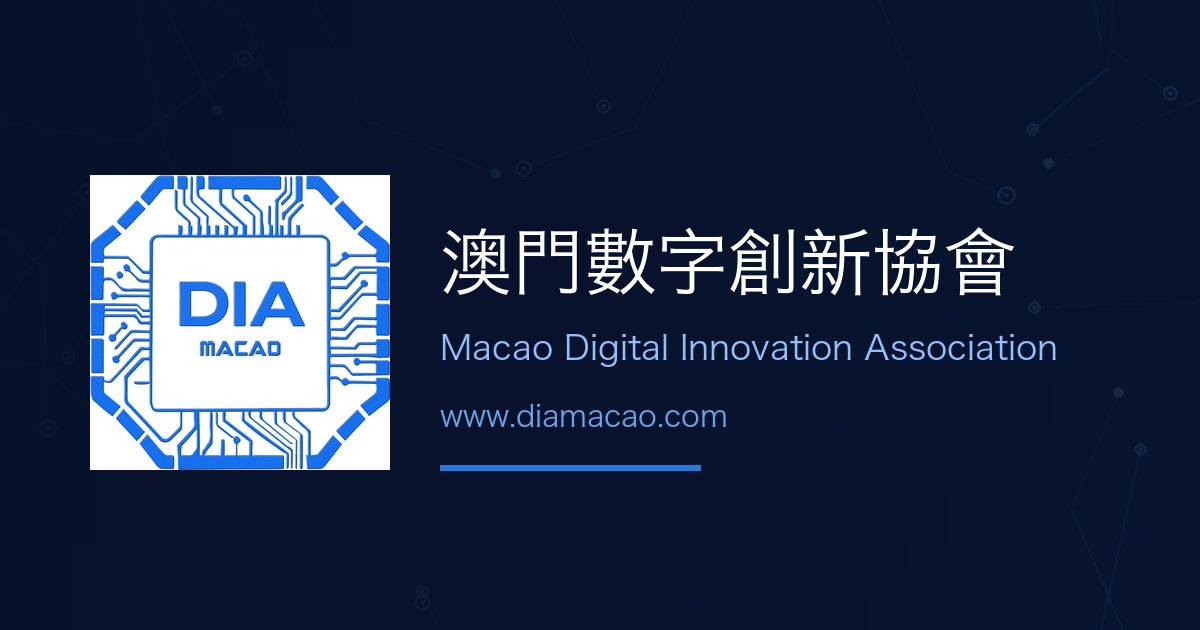
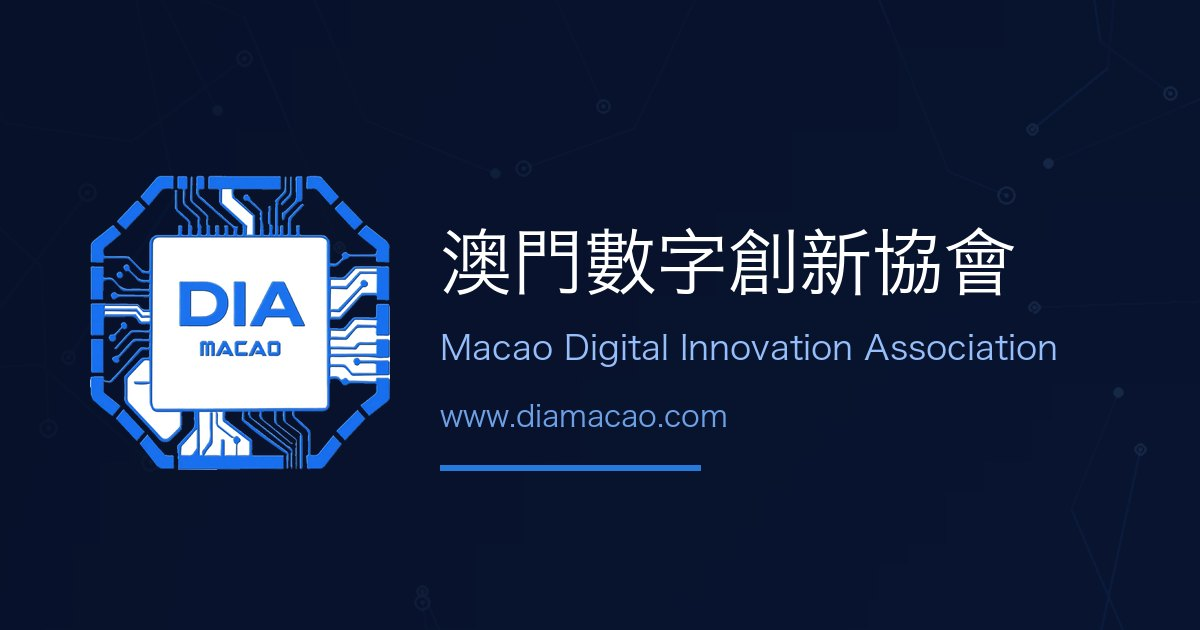
新增出海護航頁（4語言）+LOGO摳圖透明化+合作夥伴更新（換中西創新學院/南航科技，增科伊思/Beroni/中盛/中光）

Changed region(s): [[0.0617, 0.2714, 0.3392, 0.754]]

diff --git a/assets/css/style.css b/assets/css/style.css
@@ -175,7 +175,7 @@ h1, h2, h3, h4 { font-family: var(--font-display); }
   background: linear-gradient(180deg, hsl(222 60% 10% / .72), hsl(217 75% 24% / .66));
 }
 .hero .container-institutional { position: relative; }
-.hero .hero-logo { width: clamp(7rem, 14vw, 10rem); margin: 0 auto 2rem; filter: drop-shadow(0 8px 32px rgb(37 122 219 / .55)); border-radius: 1.25rem; }
+.hero .hero-logo { width: clamp(8rem, 16vw, 11.5rem); margin: 0 auto 2rem; filter: drop-shadow(0 10px 36px rgb(37 122 219 / .6)); }
 .hero h1 { font-size: 1.75rem; line-height: 1.4; font-weight: 700; margin: 0 auto 1.5rem; max-width: 62rem; letter-spacing: 0; }
 @media (min-width: 768px) { .hero h1 { font-size: 2.5rem; } }
 @media (min-width: 1024px) { .hero h1 { font-size: 3rem; } }
@@ -396,4 +396,49 @@ textarea { resize: vertical; min-height: 6rem; }
 @media (prefers-reduced-motion: reduce) {
   .js .reveal { opacity: 1; transform: none; transition: none; }
   html { scroll-behavior: auto; }
+}
+
+/* ---------- 出海護航 ---------- */
+.escort-lead { max-width: 46rem; margin: 0 auto 3rem; text-align: center; color: hsl(var(--muted-foreground)); font-size: 1.125rem; line-height: 1.75; }
+.escort-stats { display: flex; flex-direction: column; gap: 1.25rem; }
+.escort-stat { display: flex; align-items: center; gap: 1.5rem; background: hsl(var(--card)); border: 1px solid hsl(var(--border)); border-radius: 1rem; padding: 1.25rem 1.5rem; box-shadow: 0 1px 3px rgb(0 0 0 / .05); }
+.escort-stat-num { flex: none; width: 6.5rem; height: 6.5rem; border-radius: 9999px; display: flex; align-items: center; justify-content: center; text-align: center; background: linear-gradient(135deg, hsl(var(--secondary)), hsl(var(--primary))); color: #fff; font-family: var(--font-display); font-weight: 700; font-size: 1.0625rem; line-height: 1.25; padding: .75rem; }
+.escort-stat p { font-weight: 500; line-height: 1.6; }
+.escort-tagline { margin-top: 2.5rem; background: linear-gradient(120deg, hsl(var(--primary)), hsl(var(--secondary))); color: #fff; text-align: center; font-family: var(--font-display); font-weight: 600; font-size: 1.125rem; padding: 1.125rem 1.5rem; border-radius: 1rem; }
+.escort-circles { display: flex; flex-wrap: wrap; justify-content: center; gap: 2rem; margin-bottom: 3rem; }
+.escort-circle { width: 13rem; height: 13rem; border-radius: 9999px; background: linear-gradient(150deg, hsl(var(--primary)), hsl(222 60% 30%)); color: #fff; display: flex; flex-direction: column; align-items: center; justify-content: center; text-align: center; padding: 1.75rem; gap: .5rem; box-shadow: 0 12px 32px -12px hsl(var(--primary) / .45); }
+.escort-circle b { font-family: var(--font-display); font-size: 1.25rem; }
+.escort-circle span { font-size: .875rem; line-height: 1.5; opacity: .92; }
+.escort-tiers { display: flex; flex-direction: column; gap: 1rem; }
+.escort-tier { display: flex; align-items: center; gap: 1.5rem; }
+.escort-tier-k { flex: none; background: linear-gradient(135deg, hsl(var(--secondary)), hsl(var(--primary))); color: #fff; font-weight: 600; border-radius: 9999px; padding: .625rem 1.5rem; font-size: .9375rem; white-space: nowrap; }
+.escort-tier p { flex: 1; background: hsl(var(--card)); border: 1px solid hsl(var(--border)); border-radius: 1rem; padding: 1rem 1.5rem; font-weight: 500; line-height: 1.6; }
+.escort-flow { display: flex; flex-wrap: wrap; align-items: center; justify-content: center; gap: .75rem; margin-bottom: 3rem; }
+.escort-flow-step { background: hsl(var(--card)); border: 2px dashed hsl(var(--border)); border-radius: 1rem; padding: 1rem 1.5rem; text-align: center; min-width: 7.5rem; }
+.escort-flow-step b { display: block; font-family: var(--font-display); font-size: 1.0625rem; margin-bottom: .125rem; }
+.escort-flow-step span { font-size: .8125rem; color: hsl(var(--muted-foreground)); }
+.escort-flow-step.on { border: 2px solid hsl(var(--primary)); background: hsl(var(--accent)); }
+.escort-flow-step.on b { color: hsl(var(--primary)); }
+.escort-flow-arrow { color: hsl(var(--muted-foreground)); display: flex; }
+.escort-flow-arrow svg { width: 1.25rem; height: 1.25rem; }
+.escort-pain { display: flex; gap: 1rem; align-items: flex-start; }
+.escort-pain h3 { font-size: 1.125rem; font-weight: 600; margin-bottom: .5rem; }
+.escort-pain p { font-size: .9375rem; color: hsl(var(--muted-foreground)); line-height: 1.7; }
+.escort-svc { text-align: center; }
+.escort-svc h3 { font-size: 1.25rem; font-weight: 700; margin-bottom: .25rem; }
+.escort-svc-sub { color: hsl(var(--primary)); font-weight: 600; font-size: .9375rem; margin-bottom: 1rem; }
+.escort-svc p { font-size: .9375rem; line-height: 1.7; }
+.escort-supports-title { text-align: center; font-size: 1.25rem; font-weight: 600; margin: 3rem 0 1.5rem; }
+.escort-chips { display: flex; flex-wrap: wrap; justify-content: center; gap: .75rem; max-width: 56rem; margin: 0 auto; }
+.escort-chip { background: hsl(var(--card)); border: 1px solid hsl(var(--border)); border-radius: 9999px; padding: .625rem 1.375rem; font-weight: 500; font-size: .9375rem; }
+.escort-support-note { max-width: 46rem; margin: 3rem auto 0; text-align: center; background: hsl(var(--accent)); border: 1px solid hsl(var(--primary) / .25); border-radius: 1rem; padding: 1.5rem 2rem; }
+.escort-support-note p { line-height: 1.75; }
+.escort-support-contact { font-size: .9375rem; color: hsl(var(--muted-foreground)); margin-top: .5rem; }
+.escort-support-contact a { color: hsl(var(--primary)); font-weight: 600; }
+.escort-band { background: linear-gradient(120deg, hsl(222 55% 12%), hsl(var(--secondary)) 95%); color: #fff; text-align: center; }
+.escort-band .lead { font-size: 1.25rem; line-height: 1.75; max-width: 42rem; margin: 0 auto 2rem; opacity: .92; }
+@media (max-width: 640px) {
+  .escort-stat { flex-direction: column; text-align: center; }
+  .escort-tier { flex-direction: column; align-items: stretch; text-align: center; }
+  .escort-flow-arrow { transform: rotate(90deg); }
 }

diff --git a/build.py b/build.py
@@ -16,7 +16,7 @@ C = json.load(open(os.path.join(ROOT, 'content.json'), encoding='utf-8'))
 I18N = C['i18n']
 LANGS = [l['code'] for l in C['languages']]
 DEFAULT = C['default_lang']
-PAGES = ['index', 'about', 'members', 'news', 'policy', 'partners', 'contact']
+PAGES = ['index', 'about', 'members', 'news', 'policy', 'services', 'partners', 'contact']
 
 def esc(s): return html.escape(str(s), quote=True)
 
@@ -75,6 +75,10 @@ def icon(name, cls=''):
         'award': '<circle cx="12" cy="8" r="6"/><path d="M15.477 12.89 17 22l-5-3-5 3 1.523-9.11"/>',
         'building': '<rect x="4" y="2" width="16" height="20" rx="2"/><line x1="9" y1="22" x2="9" y2="18"/><line x1="15" y1="22" x2="15" y2="18"/><line x1="8" y1="6" x2="10" y2="6"/><line x1="14" y1="6" x2="16" y2="6"/><line x1="8" y1="10" x2="10" y2="10"/><line x1="14" y1="10" x2="16" y2="10"/><line x1="8" y1="14" x2="10" y2="14"/><line x1="14" y1="14" x2="16" y2="14"/>',
         'pin': '<path d="M21 10c0 7-9 13-9 13s-9-6-9-13a9 9 0 0 1 18 0z"/><circle cx="12" cy="10" r="3"/>',
+        'search': '<circle cx="11" cy="11" r="8"/><line x1="21" y1="21" x2="16.65" y2="16.65"/>',
+        'shield': '<path d="M12 22s8-4 8-10V5l-8-3-8 3v7c0 6 8 10 8 10z"/>',
+        'pause': '<rect x="6" y="4" width="4" height="16"/><rect x="14" y="4" width="4" height="16"/>',
+        'link': '<path d="M10 13a5 5 0 0 0 7.54.54l3-3a5 5 0 0 0-7.07-7.07l-1.72 1.71"/><path d="M14 11a5 5 0 0 0-7.54-.54l-3 3a5 5 0 0 0 7.07 7.07l1.71-1.71"/>',
         'facebook': '<path d="M18 2h-3a5 5 0 0 0-5 5v3H7v4h3v8h4v-8h3l1-4h-4V7a1 1 0 0 1 1-1h3z"/>',
         'linkedin': '<path d="M16 8a6 6 0 0 1 6 6v7h-4v-7a2 2 0 0 0-2-2 2 2 0 0 0-2 2v7h-4v-7a6 6 0 0 1 6-6z"/><rect x="2" y="9" width="4" height="12"/><circle cx="4" cy="4" r="2"/>',
         'instagram': '<rect x="2" y="2" width="20" height="20" rx="5" ry="5"/><path d="M16 11.37A4 4 0 1 1 12.63 8 4 4 0 0 1 16 11.37z"/><line x1="17.5" y1="6.5" x2="17.51" y2="6.5"/>',
@@ -135,7 +139,7 @@ def footer(lang, pre=''):
   <div class="container-institutional section-spacing">
     <div class="footer-grid">
       <div class="footer-col">
-        <img src="{logo}" alt="DIA Logo" style="height:3.5rem;width:auto;margin-bottom:1rem;border-radius:.5rem;">
+        <img src="{logo}" alt="DIA Logo" style="height:3.5rem;width:auto;margin-bottom:1rem;">
         <p class="desc">{esc(ft['description'])}</p>
         <div class="social-row">{social}</div>
       </div>
@@ -153,6 +157,7 @@ def footer(lang, pre=''):
         <ul>
           <li><a href="{hp('news')}">{esc(nav['news'])}</a></li>
           <li><a href="{hp('policy')}">{esc(nav['policy'])}</a></li>
+          <li><a href="{hp('services')}">{esc(nav['services'])}</a></li>
         </ul>
       </div>
       <div class="footer-col">
@@ -305,6 +310,13 @@ def render_index(lang):
       <p class="text-lg text-muted-foreground max-w-2 mx-auto" style="font-size:1.125rem;">{esc(home['focusSub'])}</p>
     </div>
     <div class="grid grid-3">{cards}</div>
+  </div>
+</section>
+<section class="section-spacing escort-band">
+  <div class="container-institutional text-center reveal">
+    <h2 class="institutional-subheading mb-4">{esc(home['escortTitle'])}</h2>
+    <p class="lead">{esc(home['escortLead'])}</p>
+    <a class="btn btn-white" href="{page_href('services', lang, lang)}">{esc(home['escortCta'])}{icon('arrow')}</a>
   </div>
 </section>
 <section class="section-spacing bg-muted-50">
@@ -494,6 +506,75 @@ def render_policy(lang):
     body = page_hero(lang, 'policy') + sections_html
     return page_shell('policy', lang, pl['title'], pl['subtitle'], body)
 
+# ---------------- 出海護航 ----------------
+def render_services(lang):
+    sv = I18N[lang]['services']
+    E = C['escort']
+    stats = ''.join(f'''
+      <div class="escort-stat reveal">
+        <div class="escort-stat-num">{esc(s['num'][lang])}</div>
+        <p>{esc(s['text'][lang])}</p>
+      </div>''' for s in E['s1']['stats'])
+    circles = ''.join(f'''
+      <div class="escort-circle reveal"><b>{esc(c['k'][lang])}</b><span>{esc(c['v'][lang])}</span></div>''' for c in E['s2']['circles'])
+    tiers = ''.join(f'''
+      <div class="escort-tier reveal">
+        <span class="escort-tier-k">{esc(tr['k'][lang])}</span>
+        <p>{esc(tr['v'][lang])}</p>
+      </div>''' for tr in E['s2']['tiers'])
+    steps = ''
+    for i, st in enumerate(E['s3']['flow']):
+        if i:
+            steps += f'<div class="escort-flow-arrow">{icon("arrow")}</div>'
+        state = esc(E['s3']['present' if st['present'] else 'absent'][lang])
+        steps += f'''
+      <div class="escort-flow-step{' on' if st['present'] else ''} reveal">
+        <b>{esc(st['k'][lang])}</b><span>{state}</span>
+      </div>'''
+    pain_icons = ['search', 'shield', 'pause', 'link']
+    pains = ''.join(f'''
+      <div class="institutional-card escort-pain reveal">
+        <div class="icon-badge xs">{icon(pain_icons[i])}</div>
+        <div>
+          <h3>{esc(p['title'][lang])}</h3>
+          <p>{esc(p['desc'][lang])}</p>
+        </div>
+      </div>''' for i, p in enumerate(E['s3']['pains']))
+    svc_icons = ['globe', 'users', 'sparkles']
+    svcs = ''.join(f'''
+      <div class="institutional-card escort-svc reveal">
+        <div class="icon-badge">{icon(svc_icons[i])}</div>
+        <h3>{esc(s['title'][lang])}</h3>
+        <div class="escort-svc-sub">{esc(s['sub'][lang])}</div>
+        <p class="text-muted-foreground">{esc(s['desc'][lang])}</p>
+      </div>''' for i, s in enumerate(E['s4']['services']))
+    chips = ''.join(f'<span class="escort-chip reveal">{esc(s[lang])}</span>' for s in E['s4']['supports'])
+    sup = E['s4']['support']
+    phones = ' / '.join(sup['phones'])
+    def section(sec, muted):
+        return f'''
+<section class="section-spacing{' bg-muted-50' if muted else ''}">
+  <div class="container-institutional">
+    <h2 class="institutional-subheading text-center mb-6 reveal">{esc(sec['title'][lang])}</h2>
+    <p class="escort-lead reveal">{esc(sec['lead'][lang])}</p>
+    {{BODY}}
+    <div class="escort-tagline reveal">{esc(sec['tagline'][lang])}</div>
+  </div>
+</section>'''
+    s1 = section(E['s1'], False).replace('{BODY}', f'<div class="escort-stats max-w-5 mx-auto">{stats}</div>')
+    s2 = section(E['s2'], True).replace('{BODY}', f'<div class="escort-circles">{circles}</div><div class="escort-tiers max-w-5 mx-auto">{tiers}</div>')
+    s3 = section(E['s3'], False).replace('{BODY}', f'<div class="escort-flow">{steps}</div><div class="grid grid-2 max-w-5 mx-auto">{pains}</div>')
+    s4_body = (f'<div class="grid grid-3">{svcs}</div>'
+               f'<h3 class="escort-supports-title reveal">{esc(E["s4"]["supportsTitle"][lang])}</h3>'
+               f'<div class="escort-chips">{chips}</div>'
+               f'''<div class="escort-support-note reveal">
+      <p>{esc(sup['note'][lang])}</p>
+      <p class="escort-support-contact">{esc(sup['contactLabel'][lang])}：{esc(sup['person'][lang])} {phones} · {esc(sup['siteLabel'][lang])}: <a href="{sup['siteUrl']}" target="_blank" rel="noopener">{sup['site']}</a></p>
+    </div>''')
+    s4 = section(E['s4'], True).replace('{BODY}', s4_body)
+    body = page_hero(lang, 'services') + s1 + s2 + s3 + s4
+    return page_shell('services', lang, sv['title'], sv['subtitle'], body)
+
 # ---------------- 合作夥伴 ----------------
 def render_partners(lang):
     pt = I18N[lang]['partners']
@@ -605,8 +686,8 @@ def render_contact(lang):
 
 # ---------------- 構建 ----------------
 RENDERERS = {'index': render_index, 'about': render_about, 'members': render_members,
-             'news': render_news, 'policy': render_policy, 'partners': render_partners,
-             'contact': render_contact}
+             'news': render_news, 'policy': render_policy, 'services': render_services,
+             'partners': render_partners, 'contact': render_contact}
 
 def build():
     if os.path.exists(DIST): shutil.rmtree(DIST)

diff --git a/AGENTS.md b/AGENTS.md
@@ -23,7 +23,8 @@
 
 ## 關鍵事實
 
-- 頁面共 7 個（`PAGES`）：index/about/members/news/policy/partners/contact。無 research/projects/publications/insights（與 MFTEDA 不同）；社評類稿件可作 `news` 條目（category 如「社評」）。
+- 頁面共 8 個（`PAGES`）：index/about/members/news/policy/services/partners/contact。無 research/projects/publications/insights（與 MFTEDA 不同）；社評類稿件可作 `news` 條目（category 如「社評」）。
+- `services` 頁（2026-10-15 新增，出海護航）：內容在 content.json 頂層 `escort` 對象（s1 行業數據帶 / s2 澳門前中後台 / s3 出海之難流程鏈+痛點卡 / s4 一站式護航三大服務+六大支撐+海易通達支持信息），全部 4 語言；樣式 `.escort-*` 在 style.css 尾部；首頁有宣傳帶 `.escort-band`（i18n home.escort*）。支持單位聯繫方式（韓女士電話、nexmatrixs.com）寫在 `escort.s4.support`。
 - 協會事實（源自《澳門特區公報》2026-02-25 第8期第二組）：2026-02-06 經認證文書設立（私人公證員周成俊，存檔編號 3/2026）；葡文名 Associação de Inovação Digital de Macau，英文名 Macao Digital Innovation Association；會址澳門何老桂巷5號；非牟利團體；組織機關 = 會員大會/理事會/監事會（任期三年）。**成立日期與註冊/刊憲信息僅存檔於此內部文檔，官網一律不顯示**（用戶 2026-10-15 指示：content.json 不得出現成立日期、公報/公證相關內容，每週 cron 更新也不得收錄此類新聞）。
 - 已核實成員：會長黃家倫（澳門立法會議員、澳門直播協會創會會長）、理事長楊誠（澳門財經科技與教育發展學會會長、國際研學旅遊產業發展協會（澳門）會長、澳門博士智庫副理事長）。其他理監事成員名單待公佈後補入 `members`。
 - 新聞目前 3 條（2026-04-15 京澳通洽會、2026-04-15 海淀區代表團訪招商局、2026-05-28 巴黎簽約），全部附媒體原文鏈接；政策 10 條（國家3/大灣區2/澳門3/海外市場2），URL 均已核實。**2026 年 6–10 月暫無協會公開報道**，有內部通稿時補入。首頁數據帶首格為「6 重點工作領域」（對應 focus_cards 六項，勿改回成立年份）。
@@ -35,4 +36,6 @@
 - 聯繫表單為前端演示，未接後端；如需真正收集留言可接 Formspree 等服務。
 - 繁簡校對規範：繁體用港澳寫法（「平台/了解/群體」的 台/了/群 均為正字，勿改作 臺/瞭/羣）；機構名按語言版本書寫（zh-CN 頁 og:site_name 用簡體「澳门数字创新协会」）。
 - 排序：news 與 policies 均按 date 降序，首頁各取前 3。
-- 關聯站點：萬裡金騰集團（wljtgroup.com，同架構）、MFTEDA（mfteda.org）、橋霍頓（bridgeholdengroup.com）已互列合作夥伴。
+- 關聯站點：MFTEDA（mfteda.org）互列合作夥伴。萬裡金騰集團、澳門橋霍頓原列合作夥伴，2026-10-15 按用戶指示從 DIA 官網移除（僅 DIA 站，MFTEDA 站不動）。
+- 合作夥伴 10 家（2026-10-15 更新）：中西創新學院（即「澳門中西學院」法定名，mmc.edu.mo，校徽 partner1.webp 複用自 MFTEDA partner11）、MFTEDA（partner2.webp）、南航科技（廣東橫琴）（無獨立官網 href=#）、海易通達（nexmatrixs.com）、Bonjour Brand、澳門直播協會、科伊思（杭州）人工智能（用戶原寫「科伊斯」，工商登記為「科伊思」，coios-ai.com）、Beroni Group Limited（貝羅尼集團，beronigroup.com）、中盛國際實業（zhongshengindustry.com；官網稱 1999 年成立但香港註冊處顯示同名公司 2023 年註冊，存疑待對方確認）、中光集團（長春）（教育投資集團，無官網 href=#）。
+- LOGO 摳圖（2026-10-15）：make_assets.py 新增 cutout()（四角洪水填充+亮像素邊緣侵蝕），logo-mark.png/logo.png/favicon 外部白底已透明化（芯片內部白色保留），hero/頁尾不再顯白框；換 LOGO 重跑 make_assets.py 即可。
